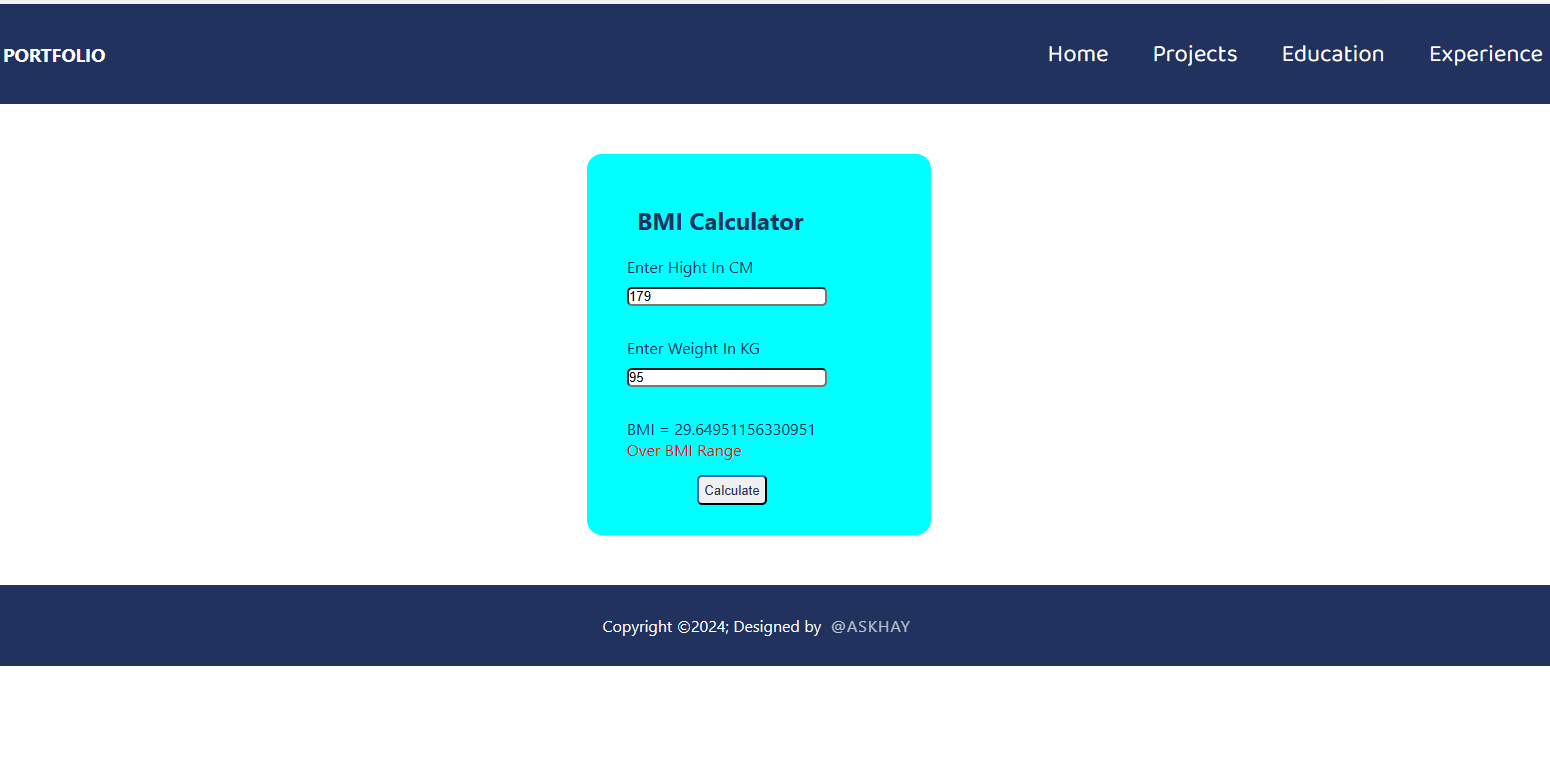
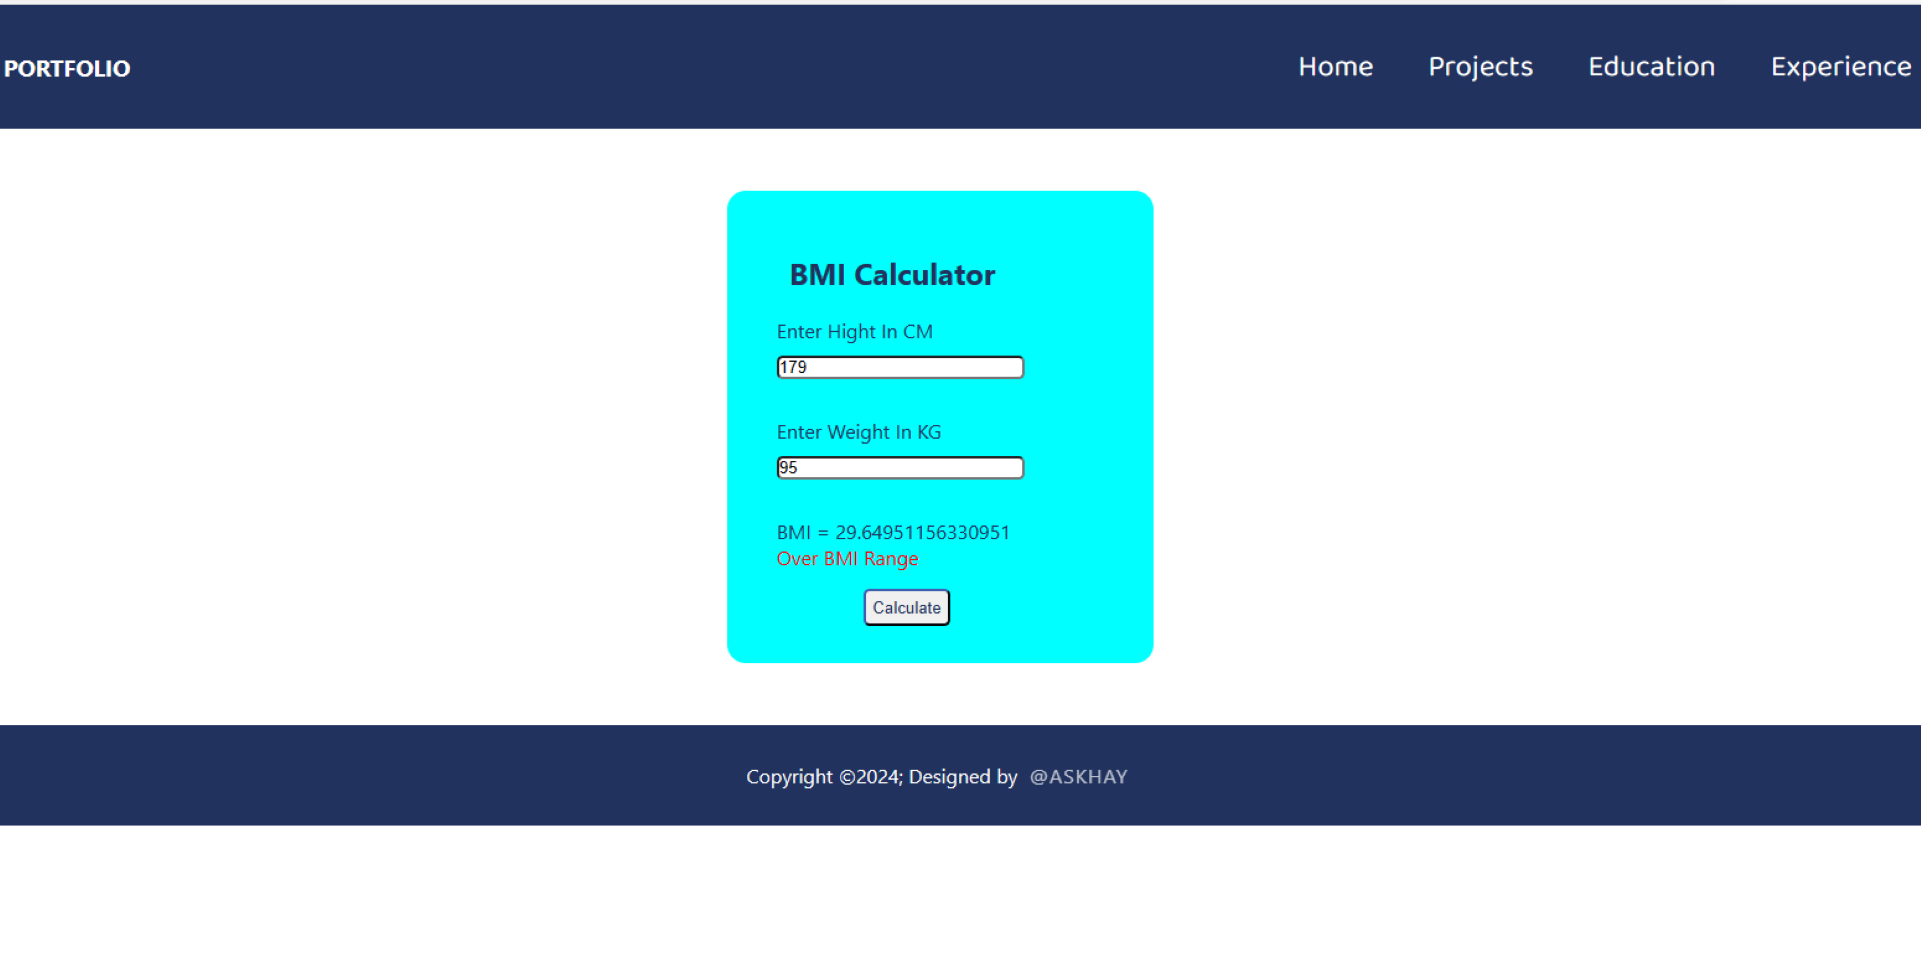
design and file name changes

diff --git a/src/restorent/pages/Menu.js b/src/restorent/pages/Menu.js
@@ -1,6 +1,6 @@
 import Footer from '../components/footer/Footer';
 import Navbar from '../components/navbar/Navbar';
-import '../css/Pesto.css';
+import '../css/restorent.css';
 import item1 from '../images/m1.jpeg';
 import item2 from '../images/m2.jpeg';
 import item3 from '../images/m3.jpeg';
@@ -11,7 +11,7 @@ import React from 'react';
 
 function Menu(){
     
-    const [quantity, setQuantity] = React.useState("");
+    const [quantity, setQuantity] = React.useState("1");
     let newValue;
     const addQuantity = () => {
         newValue = Number(quantity)  + 1;
@@ -54,7 +54,7 @@ function Menu(){
                             <p>Lorem ipsum dolor sit amet, consectetur adipisicing elit.</p>
                             
                             <button className='btnMinus' onClick={()=>subQuantity()}>-</button>
-                            <input type='number' id="quantity" name='quantity' value={quantity} className='foodQuantity' />
+                            <input type='number' id="quantity" name='quantity' min={0} value={quantity} className='foodQuantity' />
                             <button className='btnPlus' onClick={()=>addQuantity()}  >+</button>
                             
                             <button className='btn-small' name="btn-add">ADD TO CART</button>

diff --git a/src/bmicalculator/BmiCalculator.js b/src/bmicalculator/BmiCalculator.js
@@ -19,7 +19,6 @@ function BmiCalculator(){
             return
         }
         setHeightErrorMessage("");
-
         if(weight <= 0){
             setWeightErrorMessage("Enter valid Weight");
             bmi='';
@@ -27,7 +26,6 @@ function BmiCalculator(){
             return
         }
         setWeightErrorMessage("");
-
         bmi = weight/((height/100)*(height/100));
         setCalculatedBMI(bmi);
 
@@ -45,6 +43,7 @@ function BmiCalculator(){
     
     return(
         <section className="bmi">
+            
             <div className="container">
             <h1>BMI Calculator</h1>
                 <div className="card">
@@ -76,6 +75,8 @@ function BmiCalculator(){
                     <span style={{color:rangeColor}}>{bmiRange}</span><br/>
                     
                 </div>
+
+                
             </div>
         </section>
     );

diff --git a/src/bmicalculator/bmiCalculator.css b/src/bmicalculator/bmiCalculator.css
@@ -5,15 +5,16 @@
     width: 18%;
     margin: 50px auto;
     padding: 30px;
-    background-color: aqua;
+    
     border-radius: 15px;
-    text-align: left;
+    background-color: rgb(218, 235, 235);
     color: #21325e;
 }
 
 .card{
     margin: 0 auto;
-    padding: 0px 10px;
+    padding: 0px 0px;
+    width: 80%;
 }
 .container h1{
     color: #21325e;
@@ -24,6 +25,7 @@
     margin: 10px 0px;
     width: 200px;
     border-radius:5px ;
+    height:25px;
 }
 
 .container label{
@@ -32,7 +34,7 @@
 }
 
  .bmi .container button{
-    margin-left: 65px;
+    margin-left: 0;
     margin-bottom: 15px;
     height: 30px;
     width: 70px;

diff --git a/src/dictionary/Dictionary.js b/src/dictionary/Dictionary.js
@@ -62,7 +62,6 @@ function Dictionary(){
                     </audio>
                     <Typography variant="body1">Word: {word} / [{result.partOfSpeech}]
                     </Typography> 
-                    
                     <Typography variant="body1"> Meaning: {result.meaning} 
                     </Typography>
                     <Typography variant="body1"> Phonetic: {result.phonetic} 

diff --git a/src/restorent/components/OurTeam.js b/src/restorent/components/OurTeam.js
@@ -2,7 +2,7 @@ import member1 from '../images/t1.jpg';
 import member2 from '../images/member1.png';
 import member3 from '../images/t2.jpg';
 import member4 from '../images/member2.png';
-import '../css/Pesto.css';
+import '../css/restorent.css';
 function OurTeam() {
   
     return (

diff --git a/src/restorent/pages/Cart.js b/src/restorent/pages/Cart.js
@@ -1,6 +1,6 @@
 import Footer from '../components/footer/Footer';
 import Navbar from '../components/navbar/Navbar';
-import '../css/Pesto.css';
+import '../css/restorent.css';
 import m1 from '../images/m1.jpeg';
 import m2 from '../images/m2.jpeg';
 import m3 from '../images/m3.jpeg';

diff --git a/src/restorent/components/Services.js b/src/restorent/components/Services.js
@@ -2,7 +2,7 @@ import din from '../images/6.png';
 import catering from '../images/7.png';
 import delivery from '../images/8.png';
 import {Link} from 'react-router-dom';
-import '../css/Pesto.css';
+import '../css/restorent.css';
 function Services() {
   
     return (

diff --git a/src/restorent/pages/OurServices.js b/src/restorent/pages/OurServices.js
@@ -1,4 +1,4 @@
-import '../css/Pesto.css';
+import '../css/restorent.css';
 import Services from '../components/Services';
 import Navbar from '../components/navbar/Navbar';
 import Footer from '../components/footer/Footer';

diff --git a/src/restorent/pages/Restorent.js b/src/restorent/pages/Restorent.js
@@ -1,4 +1,4 @@
-import '../css/Pesto.css';
+import '../css/restorent.css';
 import Services from '../components/Services';
 import OurTeam from '../components/OurTeam';
 import Navbar from '../components/navbar/Navbar';

diff --git a/src/restorent/pages/ContactUs.js b/src/restorent/pages/ContactUs.js
@@ -1,6 +1,6 @@
 import Footer from '../components/footer/Footer';
 import Navbar from '../components/navbar/Navbar';
-import '../css/Pesto.css';
+import '../css/restorent.css';
 function ContactUs() {
   
     return (

diff --git a/src/restorent/pages/AboutUs.js b/src/restorent/pages/AboutUs.js
@@ -1,4 +1,4 @@
-import '../css/Pesto.css';
+import '../css/restorent.css';
 import OurTeam from '../components/OurTeam';
 import About from '../images/121.jpg';
 import About2 from '../images/banner1.jpg';

diff --git a/src/restorent/components/navbar/Navbar.js b/src/restorent/components/navbar/Navbar.js
@@ -1,5 +1,5 @@
 import logo from './logo/logo1.jpg';
-import './css/Portfolio.css';
+import './css/restorentnavbar.css';
 import { Link } from 'react-router-dom';
 
 function Navbar(){
